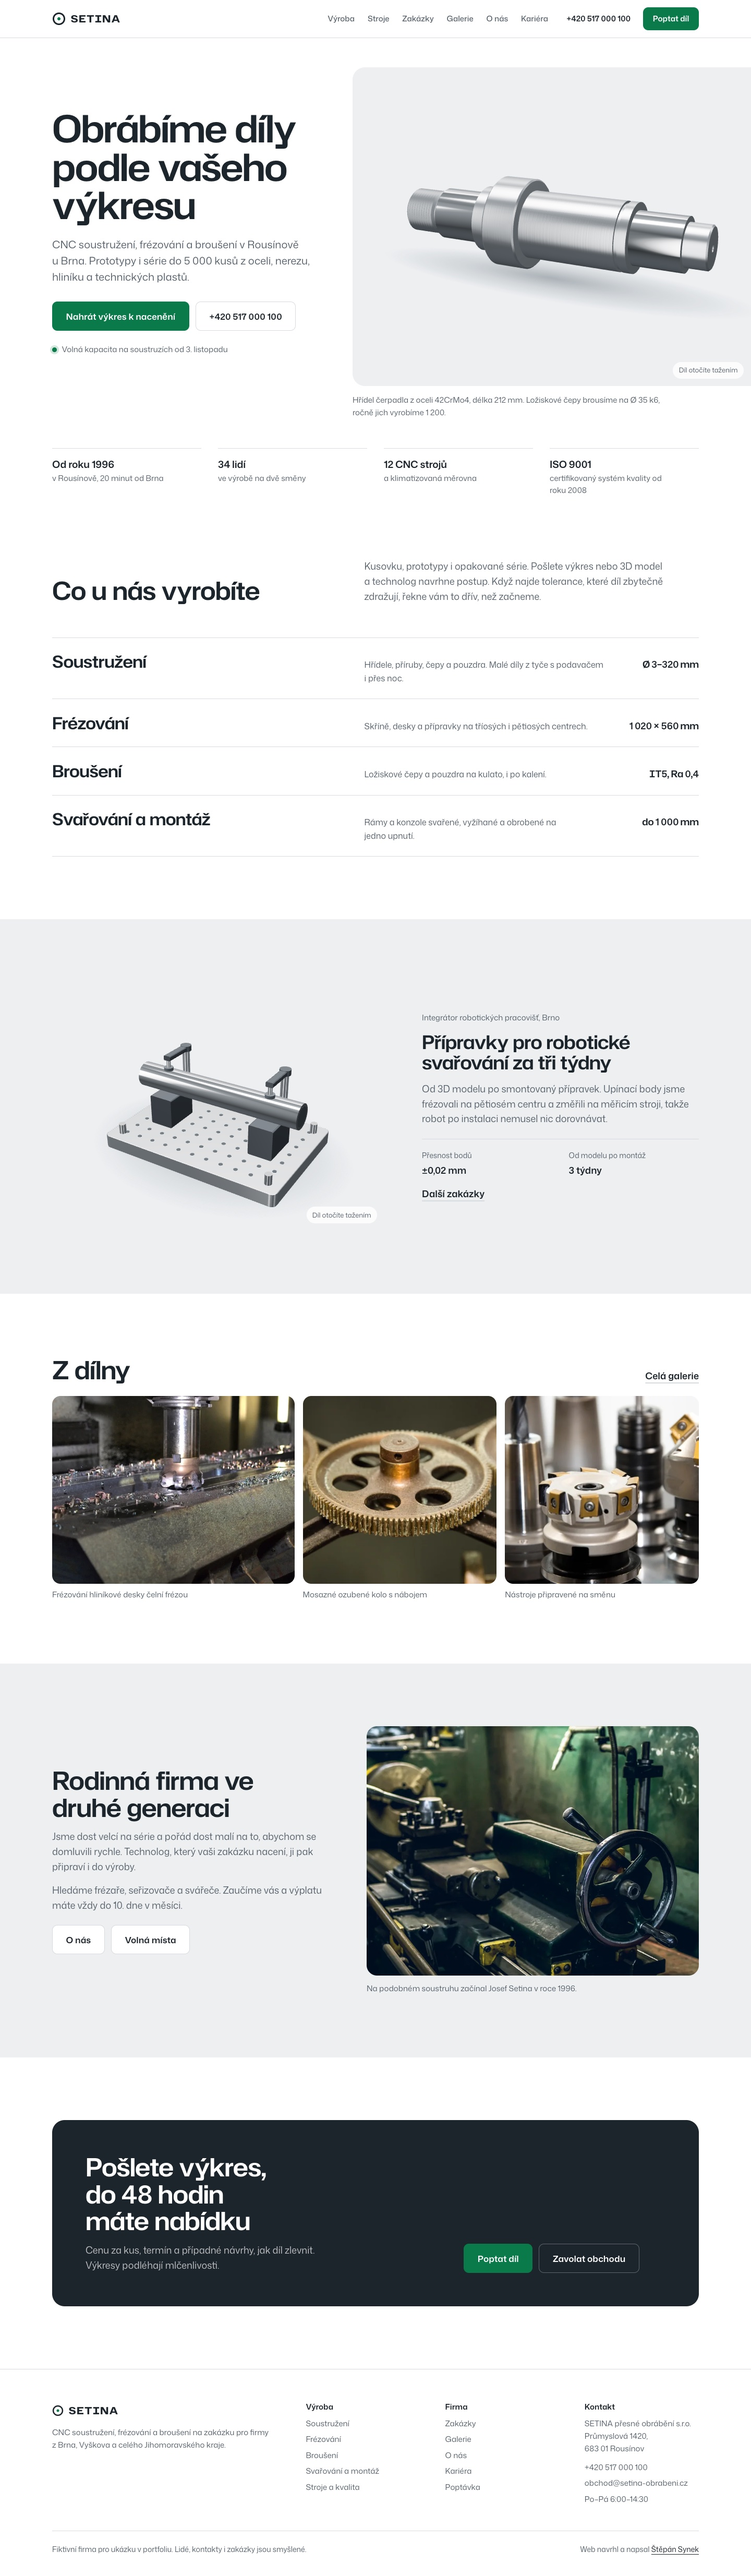
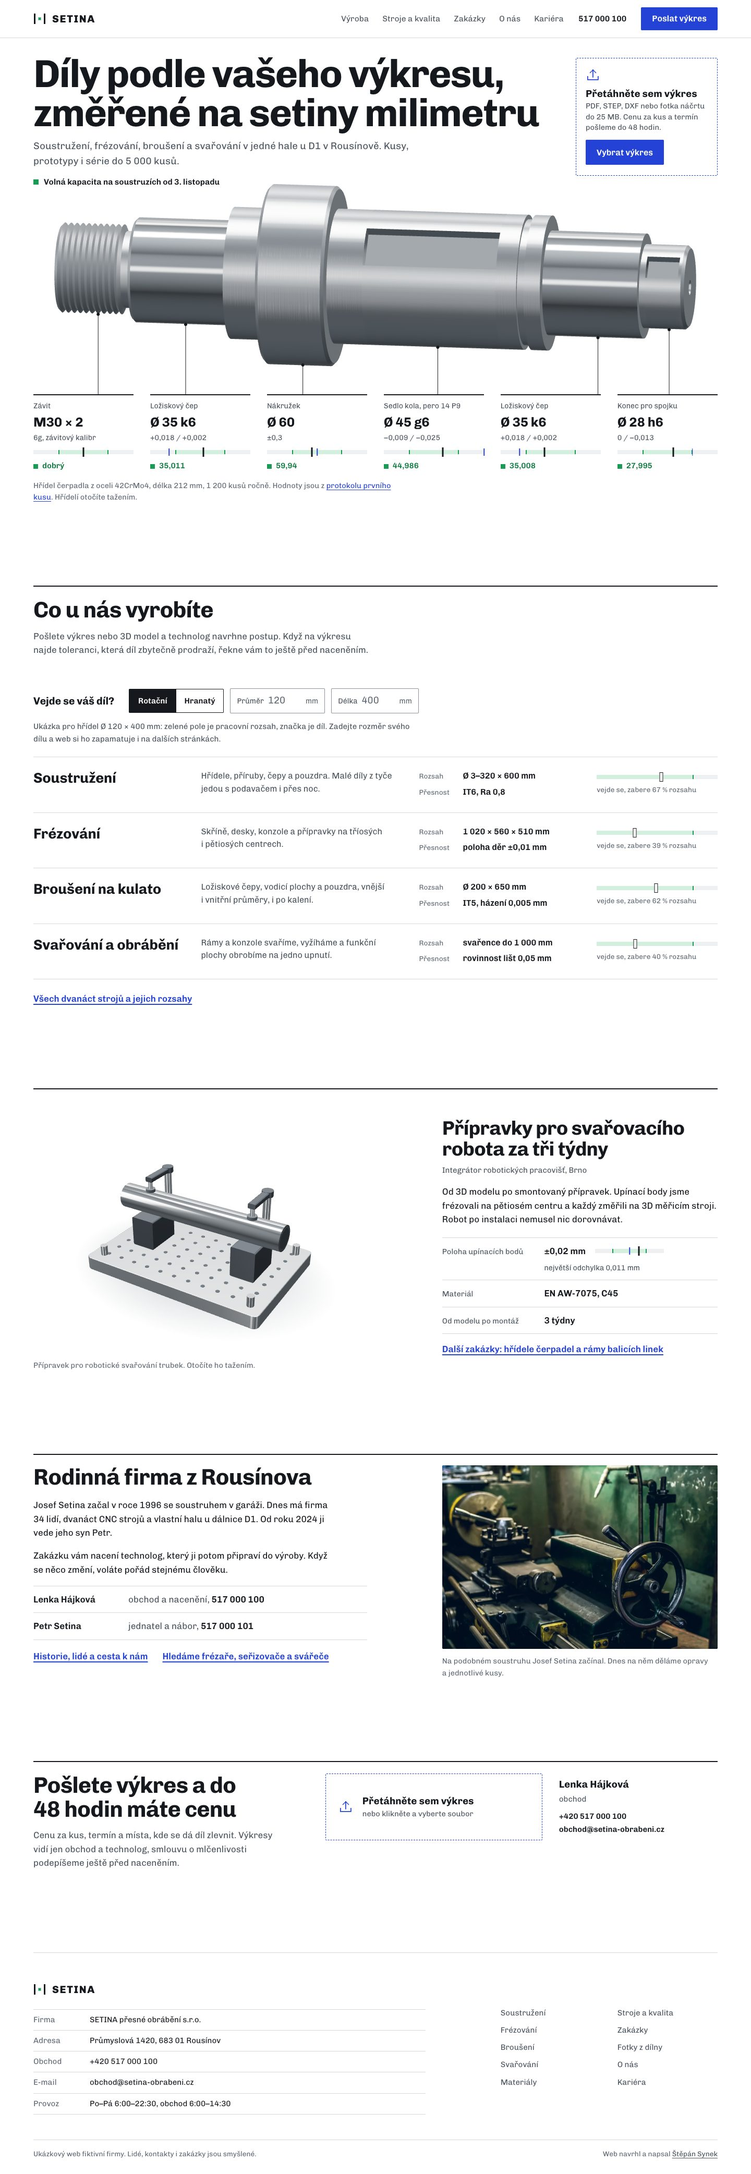
Ukázka SETINA: nové snímky a popis po redesignu (měřicí protokol)

diff --git a/src/content/demos.ts b/src/content/demos.ts
@@ -22,15 +22,15 @@ export const demos: Demo[] = [
   {
     slug: "setina",
     name: "SETINA přesné obrábění",
-    kind: "Smyšlená strojírna z Rousínova: CNC soustružení, frézování a broušení.",
+    kind: "Smyšlená strojírna z Rousínova: CNC soustružení, frézování, broušení a svařování.",
     summary:
-      "Zákazník si na úvodní stránce otočí 3D model hřídele, na stránce Stroje si ověří, jestli se jeho díl vejde do strojového parku, a rovnou nahraje výkres k nacenění.",
+      "Na úvodní stránce leží hřídel čerpadla s hodnotami z měřicího protokolu a otočíte jí tažením. Rozměr dílu zadaný jednou web ukáže u každého stroje a výkres jde přetáhnout z úvodu rovnou do poptávky.",
     url: "https://stepansynek.com/setina-web/",
     repo: "https://github.com/stepansynek/setina-web",
     facts: [
-      { label: "Stránky", value: "8 a stránka 404" },
-      { label: "Na webu", value: "3D díly, kontrola rozměru dílu, galerie s filtrem" },
-      { label: "Poptávka", value: "3 kroky s nahráním výkresu" },
+      { label: "Stránky", value: "7 a stránka 404" },
+      { label: "Na webu", value: "3D díly, měřicí protokol, kontrola rozměru dílu" },
+      { label: "Poptávka", value: "3 kroky, výkres jde přetáhnout už na úvodu" },
       { label: "Písma a 3D knihovna", value: "na vlastním serveru, bez cookie lišty" },
     ],
     shots: { desktop: "ukazka-setina", mobile: "ukazka-setina-mobil" },
